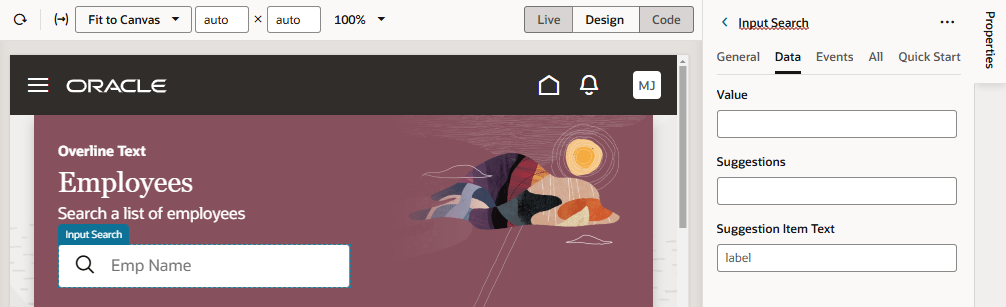
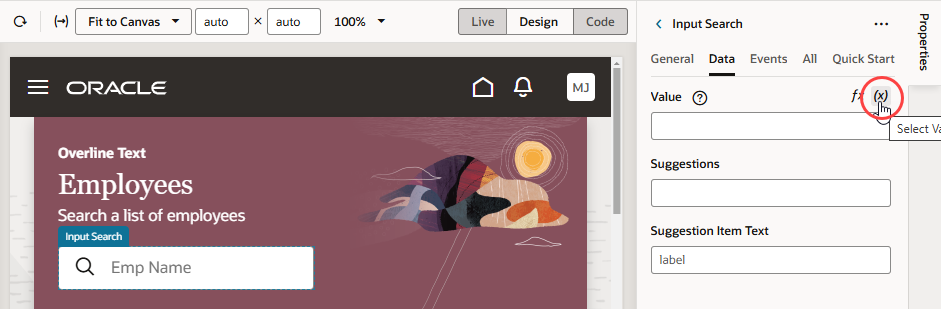
review changes

Changed region(s): [[0.0, 0.0, 1.0, 1.0], [0.0308, 0.2345, 0.1849, 0.3225], [0.0308, 0.9674, 0.0616, 1.0]]

diff --git a/visual-builder/studio/extend-apps/create-appui/create-appui.md b/visual-builder/studio/extend-apps/create-appui/create-appui.md
@@ -6,6 +6,12 @@ We're now ready to build a simple App UI that allows users to search for an empl
 
 Estimated Time: 5 minutes
 
+### About this lab
+
+An App UI is simply an application that takes the form of VB Studio flows and pages. Pages within the App UI take shape within the Designer, a rich graphical user interface that lets you design and develop your app by dragging and dropping components on a page. These components—all based on the open-source Oracle JavaScript Extension Toolkit (JET)—enable you to create rich UIs that span multiple devices.
+
+You also have access to page templates based on Redwood, the Oracle standard for user experience. Redwood page templates include a rich set of user interface elements and provide a consistent look and feel across your app's pages. They also provide a responsive user experience, which means your app will adjust to the device accessing it.
+
 ### Objectives
 
 In this lab, you will:
@@ -20,7 +26,7 @@ This lab assumes you have all previous labs successfully completed.
 
 ## Task 1: Create an App UI
 
-Start by creating an App UI, which is simply an application that takes the form of VB Studio flows and pages.
+Start by creating an App UI that takes the form of VB Studio flows and pages.
 
 1. In the **App UIs** pane, click **+ App UI**:
 
@@ -30,10 +36,10 @@ Start by creating an App UI, which is simply an application that takes the form 
 
 3. Click **Create**.
 
-    The App UI opens on the Diagram view, which shows the App UI's flows and pages. A flow is just a way to keep related pages together. An application can contain multiple flows, and a flow can contain many pages. In this case, we have one flow, **main**, and one page, **main-start**:
-    ![This image shows a new empsearch App UI open on the canvas in the Designer tab. On the left is a Components palette; on the right is the  main tile indicating a flow with the main-search tile indicating a page nested within.](images/newappui.png)
+    The App UI opens on the Diagram view, which shows the App UI's flows and pages. A flow is just a way to keep related pages together. An application can contain many flows, and each flow can contain many pages. In this case, we have one flow, **main**, and one page, **main-start**:
+    ![This image shows a new **empsearch** App UI open on the canvas in the Diagram tab. On the left is a Components palette; on the right is the  **main** tile indicating a flow, with the **main-start** tile nested within indicating a page within the flow.](images/newappui.png)
 
-4. Double-click the **main-start** tile in the canvas area to open the page in the Page Designer.
+4. Double-click the **main-start** tile on the canvas to open the page in the Page Designer.
 
     What you see under the **main-start** tab is your main work area. Just under **main-start** are several horizontal tabs: Page Designer, Action Chains, Event Listeners, and so on. Each tab provides editors to help you examine and modify artifacts used in the page. By default, the page opens in the Page Designer, which is where you'll do the bulk of your work in VB Studio.
     ![This image shows the main-start page with several components labelled. On the left are the Components, Data, and Structure tabs, in the middle is the canvas area, and on the right is the Properties pane.](images/pagedesigner.png)
@@ -54,57 +60,55 @@ Start by creating an App UI, which is simply an application that takes the form 
 
 ## Task 2: Change the Page Template
 
-Change the main-start page to use a Redwood template. Redwood page templates include a rich set of user interface elements and provide a consistent look and feel across your app's pages. They also provide a responsive user experience, which means your app will adjust to the device accessing it.
+Change the main-start page to use a Redwood Welcome Page Template, allowing you to quickly create a search page using predefined components.
 
-1. In the main-start page's Properties pane, click **Select Page Template**.
+1. With the main-start page open in the Page Designer, click **Properties** to open the page's Properties pane, then click **Select Page Template**.
 
    ![This image shows the main-start page's Properties pane. It includes Title, Description, Select Page Template, and Preferred Layout options.](images/select-page-template.png)
 
-2. In the Page Templates dialog, scroll down and select **Welcome Page Template**. (If you don't see this template, go back to the first lab and make sure you set up all the components.) Click **Select**.
+2. When the Page Templates dialog opens, scroll down and select **Welcome Page Template**. (If you don't see this template, go back to the first lab and make sure you set up all the components.) Click **Select**.
 
-   ![This image shows the Page Templates dialog. Besides a No Page Content, it shows several templates such as Advanced Create and Edit Template, Smart Search Page Template, and Welcome Page Template. The Cancel and Select buttons are also shown.](images/page-templates.png)
+   ![This image shows the Page Templates dialog. A **No Page Content** shows on top. Under that, a **Page Content** section shows several templates such as Advanced Create and Edit Template, Smart Search Page Template, and Welcome Page Template. The Cancel and Select buttons are also shown.](images/page-templates.png)
 
-3. Once the template is applied, click **Welcome Page Template** in Structure view.
+3. In Structure view, click **Welcome Page Template** to view the template's properties.
 
-   ![This image shows the main-start page with the Welcome Page Template selected in Structure view. The template displayed in the canvas areas shows a blue banner with Overline Text, Page Title, and Description Text. A Default Slot placeholder is also shown under the banner.](images/welcome-page-template.png)
+   ![This image shows the main-start page with the Welcome Page Template selected in Structure view. The template displayed in the canvas area  shows a blue banner with Overline Text, Page Title, and Description Text. A Default Slot placeholder is also shown under the banner.](images/welcome-page-template.png)
 
-4. In the template's Properties pane, click the **All** tab and modify these properties:
+4. In the template's Properties pane, click the **All** tab and modify these property values:
 
     | # | Property | Value |
     | --- | ---- | --- |
     | 1 | Page Title | **Employees**|
     | 2 | Description | **Search a list of employees** |
-    | 3 | Background Color | Remove **[[ $page.variables.backgroundColor ]]**, then select your preferred color: dark-ocean, dark-pine, dark-lilac, dark-teal, dark-rose, dark-pebble, dark-slate, dark-plum, dark-sienna, auto  |
+    | 3 | Background Color | Remove **[[ $page.variables.backgroundColor ]]** and select a color: dark-ocean, dark-pine, dark-lilac, dark-teal, dark-rose, dark-pebble, dark-slate, dark-plum, dark-sienna, auto  |
     | 4 | Illustration foreground source URL | https://static.oracle.com/cdn/fnd/gallery/2504.0.0/images/illust-welcome-banner-fg-03.png |
     {: title="Welcome Page Template Properties"}
 
     Your screen may look something like this:
 
-   ![This image shows the Page Templates dialog. Besides a No Page Content, it shows several templates such as Advanced Create and Edit Template, Smart Search Page Template, and Welcome Page Template. The Cancel and Select buttons are also shown.](images/welcome-page-template-customized.png)
+   ![This image shows the main-start page, with a banner in Dark Rose.  **Employees** is shown as the title and a **Search a list of employee** is shown as the description. The template's Properties show the values of several properties. ](images/welcome-page-template-customized.png)
 
 ## Task 3: Add a Search component
 
-Let's now add search functionality to the main-start page.
+Let's now add an Input Search component that allows users to enter some search text on the main-start page.
 
 1. In the Components palette, enter **search** in the Filter field to locate the Input Search component.
 
-2. Drag and drop the component onto the banner in the canvas area (you can also drop it onto the Welcome page Template in Structure view). When prompted to pick a slot, select **Search Slot**.
+2. Drag and drop the component on the banner in the canvas area (you can also drop it onto the Welcome Page Template in Structure view). When prompted to pick a slot, select **Search slot**.
 
-   ![This image shows the Input Search component being dropped onto the banner on the canvas to bring up the Slots pop-up with the options: **Default Slot** and **Search Slot**. **Search Slot** is selected.](images/search-slot.png)
+   ![This image shows the Input Search component being dropped onto the banner to bring up the Slots pop-up with the options: **Default** and **Search slot**. **Search slot** is selected.](images/search-slot.png)
 
 3. In the Input Search component's Properties pane, enter  `Emp Name` as the **Placeholder**. You'll see this text appear as a placeholder in the component on the canvas.
 
-4. Click the **Data** tab in the Properties pane:
+4. Let's now map the input search field to a variable, which will hold the employee detail that the user will search for. In the Input Search component's Properties pane, click the **Data** tab, then hover over the **Value** text, and click ![Select Variable icon](images/icon-selectvariable.png) next to **fx**.
 
-    ![This image shows the Input Search component on the canvas area in the banner. The Data tab is selected in the Properties pane.](images/component-properties-data.png)
+    ![This image shows the Input Search component's Properties pane, with the cursor hovering over the Select Variable icon.](images/component-properties-data.png)
 
-5. Let's now map the input search field to a variable, which will hold the employee detail that the user will search for. In the Input Search component's Properties pane, hover over the **Value** text, and click ![Select Variable icon](images/icon-selectvariable.png) next to **fx**.
+5. When the variable picker opens, click **Create** next to **Page**.
 
-    ![This image shows the Input Search component's Properties pane, with the cursor hovering over the Select Variable icon.](images/select-var.png)
+    ![This image shows the Variables picker, with **Create** next to Page highlighted.](images/select-var.png)
 
-6. When the variable picker opens, click **Create** next to **Page**.
-
-7. In the **ID** field, enter `searchString`, leave the **Type** set to `String`, and click **Create**.
+6. In the **ID** field, enter `searchString`, leave the **Type** set to `String`, and click **Create**.
 
     The component's data is now bound to the newly created variable.
 

diff --git a/visual-builder/studio/extend-apps/connect-to-data/connect-data.md b/visual-builder/studio/extend-apps/connect-to-data/connect-data.md
@@ -2,9 +2,13 @@
 
 ## Introduction
 
-Now that we've created the UI (frontend) for our App UI, it's time to work with the backend and connect to data that lives in Oracle Cloud Applications, so we can display it on the page.
+Now that we've created the UI (frontend) for our App UI, it's time to work with the backend and connect your extension to data that lives in Oracle Cloud Applications.
 
 Estimated Time: 5 minutes
+
+### About this lab
+
+Oracle Cloud Applications provides REST-based access to its data. In this lab, we'll use the service catalog in VB Studio to browse the available REST services, pick one, then display data from it on the page.
 
 ### Objectives
 
@@ -17,25 +21,25 @@ In this lab, you will:
 
 This lab assumes you have all previous labs successfully completed.
 
-## Task 1: Connect to a data source
+## Task 1: Create a service connection
 
-Create a connection to the Oracle Human Capital Management (HCM) services catalog to display employee data in the App UI's pages.
+Create a connection to the Oracle Human Capital Management (HCM) services catalog to display employee data on the main-start page.
 
 1. Click ![Services icon](images/icon-services.png) **Services** in the Navigator.
 
-2. In the Services pane, click **+ Service Connection**:
+2. In the Services pane, click **+ Service Connection**.
 
     ![This image shows the Services selected in the Navigator. In the Service Connections tab, the + Service Connection button is selected.](images/services-create-service-connection.png)
 
 3. In the **Select Source** screen of the Service Connection wizard, click **Select from Catalog**.
 
-4. Click the **Human Capital Management** tile:
+4. Click the **Human Capital Management** tile.
 
     ![This image shows the Create Service Connection wizard Service Catalog screen with the Human Capital Management tile selected.](images/hcm-tile.png)
 
 5. In the **Create Service Connection** screen, enter `hcmRest` as the Service Name.
 
-6. In the **Filter Objects/Endpoints** text box, enter `work`, then select **publicWorkers** from the search results:
+6. In the **Filter Objects/Endpoints** text box, enter `work`, then select **publicWorkers** from the search results.
 
     ![This image shows the Create Service Connection page with the word "work" entered in the search field and the publicWorkers object selected.](images/publicworkers.png)
 
@@ -45,7 +49,7 @@ Create a connection to the Oracle Human Capital Management (HCM) services catalo
 
 ## Task 2: Add data to the page and set up filtering
 
-In this task, we're going to display a list of employees in a table and set up a filtering mechanism for the list based on the employee's display name. We want to compare each name to whatever the user enters as a search string, in order to find the proper match.
+Display a list of employees based on data we get from HCM, then set up a mechanism to filter the list based on the employee's display name. We want to compare each name to whatever the user enters as a search string, in order to find the proper match.
 
 1. Switch to the main-start page. Click the **main-start** tab just below the header, or click ![App UIs icon](images/icon-appuis.png) **App UIs** in the Navigator and select **main-start** under the **empsearch** and **main** nodes.
 
@@ -53,17 +57,17 @@ In this task, we're going to display a list of employees in a table and set up a
 
     ![This image shows the Data tab in the Page Designer with Services and hcmRest nodes expanded. The publicWorkers is being dragged and dropped on the canvas.](images/publicworkers-datatab.png)
 
-3. Drag **publicWorkers** into Structure view and drop it on the **Welcome Page Template**, then select **Default** in the slots pop-up:
+3. Drag **publicWorkers** into Structure view and drop it on the **Welcome Page Template**, then select **Default** in the slots pop-up.
 
-    ![This image shows the Data tab in the Page Designer with Services and hcmRest nodes expanded. The publicWorkers is being dragged and dropped on the canvas.](images/welcome-page-template-default-slot.png)
+    ![This image shows the publicWorkers service being dropped onto the Welcome Page Template in the Structure view. The Select a Slot pop-up shows the Default slot as available, with the Search slot shown as full.](images/welcome-page-template-default-slot.png)
 
-4. When prompted with options for presenting the data, select **Table** (not the first Table Dynamic option):
+4. When shown options to display the data, select **Table** (not the first Table Dynamic option).
 
-    ![This image shows a "Render as" list of options displayed below the Welcome Page TEmplate component. The second "Table" item is selected.](images/render-as-list-selection.png)
+    ![This image shows a "Render as" pop-up below the Welcome Page Template component. The second "Table" item is selected. Other options include Table Dynamic, List Dynamic, Details Dynamic, and List](images/render-as-list-selection.png)
 
 5. In the Add Data wizard, the **Endpoint Structure** panel shows all the fields that are available for us to choose from in the **publicWorkers** object. Use the Filter field and select **DisplayName**, **PhoneNumber** and **LocationTownOrCity**. Click **Next**.
 
-    ![This image shows the Add Data page with the word "LocationTownOrCity" in the Endpoint Structure search field. In the Item Template Fields, DisplayName is in the Default slot, PhoneNumber is in the Secondary slot, and LocationTownOrCity is in the Tertiary slot.](images/add-data-wizard-binddata.png)
+    ![This image shows the Add Data page with the word "LocationTownOrCity" in the Endpoint Structure search field. In the Columns Fields, DisplayName, PhoneNumber, and LocationTownOrCity are shown.](images/add-data-wizard-binddata.png)
 
 6. In the **Define Query** screen, select **filterCriterion** in the **Target** panel.
 

diff --git a/visual-builder/studio/extend-apps/create-extn/create-extn.md b/visual-builder/studio/extend-apps/create-extn/create-extn.md
@@ -65,7 +65,7 @@ Create a project to manage the tools and processes you need to develop an extens
 
     Wait for the project to be provisioned. Once provisioning completes, you'll see the Project Home page, which serves as a window to your workspaces, environments, and repositories, as well as a recent activities feed. On the left are a series of tabs showing the available project components.
 
-    ![The Project Home page includes a Workspaces area, Environments area, and a Recent Activities feed. On the right, the Repositories tab, Statistics, and Team tabs are also visible.](images/project-home.png "Project Home page")
+    ![The Project Home page includes a Workspaces area, Environments area, and a Recent Activities feed. On the left, the Organization, Project Home, Workspaces, Git, Merge Requests, Builds, Environments, and other project components show.](images/project-home.png "Project Home page")
 
     Because we created a project with no preconfigured settings or content, we need to create what we need, by defining an environment that connects to an Oracle Cloud Applications instance, then creating a workspace with a Git repository.
 
@@ -83,7 +83,7 @@ Define an environment that points to your Oracle Cloud Applications development 
 
 4. Click **Oracle Cloud Applications** under Instance Type to look up Oracle Cloud App instances in your tenancy. Select the instance you want and click **Add**.
 
-    ![The Add Service Instances dialog with Fusion Applications Cloud Service of type Oracle Cloud Application IDCS Resource selected. An Add button is also shown.](images/env-add-service-instances.png "Environments page")
+    ![The Add Service Instance dialog with Instance Type set to Oracle Cloud Applications and Add Instance Using set to Identity Domain. With these options, a Fusion Applications Cloud Service of type Oracle Cloud Application IDCS Resource is shown. This instance is selected. An Add button is also shown.](images/env-add-service-instances.png "Environments page")
 
    Wait for the instance's Status to turn green, from 'Unknown' to 'Available'.
 
@@ -115,7 +115,7 @@ Once you have a project with an Oracle Cloud Apps environment, create a workspac
   {: title="New App Extension Fields"}
 
   Here are the values used for demo purposes in this workshop:
-  ![This image shows the New Application Extension dialog, with fields filled as follows: Extension Name: DemoEmpSearch; Extension Id: site_DemoEmpSearch; Workspace Name: DemoEmpSearch; Development Environment: DEV; Sandbox: No sandbox selected. The Create new repository option is selected. DemoEmpSearch is entered in the Repository Name field and branch1 is entered into the Working Branch field.](images/create-workspace.png)
+  ![This image shows the New Application Extension dialog, with fields filled as follows: Extension Name: DemoEmpSearch; Extension Id: site_DemoEmpSearch; Workspace Name: DemoEmpSearch; Root folder: extesion1; Development Environment: DEV; Sandbox: No sandbox selected. The Create new repository option is selected. DemoEmpSearch is entered in the Repository Name field and branch1 is entered into the Working Branch field.](images/create-workspace.png)
 4. Click **Create**.
 
   VB Studio opens your workspace in the Designer, where you can get started with developing your App UI.
@@ -124,7 +124,7 @@ Once you have a project with an Oracle Cloud Apps environment, create a workspac
 
 When your workspace first opens in the Designer, your screen might look something like this:
 
-![This image shows the designer view that opens right after a workspace is created. The Navigator is on the left side of the page and the welcome message is on the right side.](images/welcome.png)
+![This image shows the designer view that opens right after a workspace is created. The Navigator is on the left side of the page and the welcome page is on the right.](images/welcome.png)
 
 On the left edge is a vertical toolbar with icons representing App UIs, Services, Dependencies, and so on. This toolbar is the Navigator, which helps you move between the artifacts in your extension.
 
@@ -132,7 +132,7 @@ The App UIs pane is where you'd get started with App UIs (entire pages and flows
 
 Now take a look at the header:
 
-![This image shows the workspace header, with the workspace name, Git repository, and current branch on the left. Other elements on the right are Preview, Publish, and an Options menu.](images/header.png)
+![This image shows the workspace header, with the workspace name, Git repository, and current branch on the left. Other elements on the right include Preview, Notifications, Publish, and a menu.](images/header.png)
 
 * On the left is the name of your current workspace, **DemoEmpSearch**; next to it is the project's Git repository (**DemoEmpSearch.git**) and the branch currently associated with your workspace (**branch1**).
 

diff --git a/visual-builder/studio/extend-apps/introduction/introduction.md b/visual-builder/studio/extend-apps/introduction/introduction.md
@@ -6,7 +6,7 @@ This workshop shows how you can extend Oracle Cloud Applications using Oracle Vi
 
 *Extensions* are what you use to deliver new capabilities into Oracle Cloud Applications. Those capabilities may take the form of customizations you make to the App's user interface, or things like App UIs that deliver new pages or resources to your Oracle Cloud Applications instance. An App UI is simply an application that includes a user interface component in the form of VB Studio pages and flows.
 
-In this workshop, you'll navigate to VB Studio from an Oracle Cloud Applications page and access a project where you develop your extension. You'll create an App UI that presents employee data from an Oracle SaaS service connection, then allow users to search for a specific employee. You'll also deploy the extension to your Oracle Cloud Applications instance.
+In this workshop, you'll navigate to VB Studio from an Oracle Cloud Applications page and access a project where you develop your extension. You'll create an App UI that presents employee data from an Oracle SaaS service connection, then allow users to search for an employee. You'll also deploy the extension to your Oracle Cloud Applications instance.
 
 Estimated Workshop Time: 20 minutes
 
